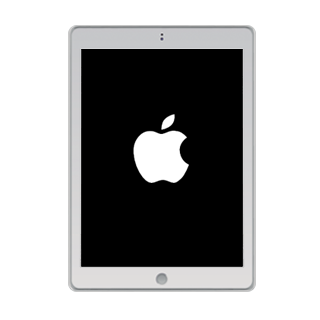
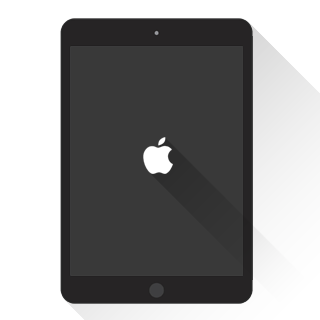
Redesigned product btns

diff --git a/index.html b/index.html
@@ -79,26 +79,14 @@
 
 		<!-- Banner -->
         <div id="homepage" class="jqueryOptions">
-            <div id="myslider" class="owl-carousel owl-theme">
-                <!--
-
-                <div>
-                    <section id="banner">
-                        <h2>iRetron</h2>
-                        <p>Start to sell your unused iPhone.</p>
-                        <ul class="actions">
-                            <li><a href="#" class="button special">Start to sell</a></li>
-                            <li><a href="#" class="button">Learn More</a></li>
-                        </ul>
-                    </section>
-                </div>-->
-                <div class="item">
-                    <img src="images/s1.jpg" alt=""/>
-                </div>
-                <div class="item">
-                    <img src="images/s2.jpg" alt=""/>
-                </div>
-            </div>
+                <section id="banner">
+                    <h2>iRetron</h2>
+                    <p>Start to sell your unused iPhone.</p>
+                    <ul class="actions">
+                        <li><a href="#" class="button special">Start to sell</a></li>
+                        <li><a href="#" class="button">Learn More</a></li>
+                    </ul>
+                </section>
         </div>
 
 		<!-- Main -->
@@ -115,20 +103,20 @@
 					</header>
 					<span class="featured">
                         <div id="myproducts" class="owl-carousel owl-theme">
-                            <div class="item prodslider">
-                                <span class="image prodicon"><img src="images/1apple.png" alt=""/></span>
+                            <div class="item">
+                                <a class="prodbtn" href="#"><span class="image prodicon"><img src="images/1apple.png" alt=""/></span></a>
                             </div>
-                            <div class="item prodslider">
-                                <span class="image prodicon"><img src="images/2android.png" alt=""/></span>
+                            <div class="item">
+                                <a class="prodbtn" href="#"><span class="image prodicon"><img src="images/2android.png" alt=""/></span></a>
                             </div>
-                            <div class="item prodslider">
-                                <span class="image prodicon"><img src="images/3ipad.png" alt=""/></span>
+                            <div class="item">
+                                <a class="prodbtn" href="#"><span class="image prodicon"><img src="images/3ipad.png" alt=""/></span></a>
                             </div>
-                            <div class="item prodslider">
-                                <span class="image prodicon"><img src="images/4macbook.png" alt=""/></span>
+                            <div class="item">
+                                <a class="prodbtn" href="#"><span class="image prodicon"><img src="images/4macbook.png" alt=""/></span></a>
                             </div>
-                            <div class="item prodslider">
-                                <span class="image prodicon"><img src="images/5mp3.png" alt=""/></span>
+                            <div class="item">
+                                <a class="prodbtn" href="#"><span class="image prodicon"><img src="images/5mp3.png" alt=""/></span></a>
                             </div>
                         </div>
                     </span>
@@ -440,6 +428,90 @@
                         </div>
                         <!--     </section>-->
                     </div>
+                    <div id="buzz" class="jqueryOptions">
+                        <h2>Buzz</h2>
+
+                        <div class="buzz-item">
+                            <div class="content">
+                                <h3 class="title">CNN</h3>
+                                <div class="date">Dec 8th, 2014</div>
+                                <div class="clear"></div>
+                                <div class="source"><a href="http://www.cnn.com/2014/12/08/business/teen-entrepreneurs-making-millions/index.html" target="_blank">The teen entrepreneurs making millions on their lunch break</a></div>
+                            </div>
+                        </div>
+                        <div class="buzz-item">
+                            <div class="content">
+                                <h3 class="title">Forefront Magazine</h3>
+                                <div class="date">Sep 6th, 2014</div>
+                                <div class="clear"></div>
+                                <div class="source"><a href="http://www.forefrontmag.com/2014/09/move-aside-millennials/" target="_blank">Move Aside, Millennials</a></div>
+                            </div>
+                        </div>
+                        <div class="buzz-item">
+                            <div class="content">
+                                <h3 class="title">ABC 7 News</h3>
+                                <div class="date">Jul 3rd, 2014</div>
+                                <div class="clear"></div>
+                                <div class="source"><a href="http://abc7news.com/education/abc7-top-scholar-jason-li/155206/" target="_blank">ABC7 Top Scholar: Jason Li</a></div>
+                            </div>
+                        </div>
+                        <div class="buzz-item">
+                            <div class="content">
+                                <h3 class="title">Innov & Social</h3>
+                                <div class="date">Apr 12th, 2014</div>
+                                <div class="clear"></div>
+                                <div class="source"><a href="http://www.innov8social.com/2014/04/interview-with-jason-li-teen-social.html" target="_blank">Interview with Jason Li, Teen Social Entrepreneur and Successful ...</a></div>
+                            </div>
+                        </div>
+                        <div class="buzz-item">
+                            <div class="content">
+                                <h3 class="title">ABC</h3>
+                                <div class="date">Mar 15th, 2014</div>
+                                <div class="clear"></div>
+                                <div class="source"><a href="http://abc.go.com/shows/shark-tank/episode-guide/season-05/520-define-bottle-iretron-boo-boo-goo-henrys-humdingers" target="_blank">Shark Tank Episodes Season 5</a></div>
+                            </div>
+                        </div>
+                        <div class="buzz-item">
+                            <div class="content">
+                                <h3 class="title">The SharkTank Blog</h3>
+                                <div class="date">Mar 8th, 2014</div>
+                                <div class="clear"></div>
+                                <div class="source"><a href="http://sharktankblog.com/recycle-electronics-iretron/" target="_blank">Recycle Electronics with IReTron</a></div>
+                            </div>
+                        </div>
+                        <div class="buzz-item">
+                            <div class="content">
+                                <h3 class="title">San Jose Mercury News</h3>
+                                <div class="date">Nov 4th, 2013</div>
+                                <div class="clear"></div>
+                                <div class="source"><a href="http://www.mercurynews.com/my-town/ci_24454150/saratoga-li-ranks-no-25-worlds-smartest-teen" target="_blank">Saratoga: Li ranks No. 25 on &#039;World&#039;s Smartest&#039; teen list</a></div>
+                            </div>
+                        </div>
+                        <div class="buzz-item">
+                            <div class="content">
+                                <h3 class="title">The Best Schools</h3>
+                                <div class="date">Sep 25th, 2013</div>
+                                <div class="clear"></div>
+                                <div class="source"><a href="http://www.thebestschools.org/blog/2013/09/25/worlds-50-smartest-teenagers/" target="_blank">The World’s 50 Smartest Teenagers</a></div>
+                            </div>
+                        </div>
+                        <div class="buzz-item">
+                            <div class="content">
+                                <h3 class="title">Gsmnation Blog</h3>
+                                <div class="date">Apr 15th, 2013</div>
+                                <div class="clear"></div>
+                                <div class="source"><a href="http://www.gsmnation.com/blog/2013/04/15/iretron-stop-old-electronics-from-getting-wasted/" target="_blank">iReTron: Stop Old Electronics from Getting Wasted</a></div>
+                            </div>
+                        </div>
+                        <div class="buzz-item">
+                            <div class="content">
+                                <h3 class="title">This gives me hope</h3>
+                                <div class="date">Mar 18th, 2013</div>
+                                <div class="clear"></div>
+                                <div class="source"><a href="http://thisgivesmehope.com/2013/03/18/610-high-school-student-launches-green-company/" target="_blank">High school student launches green company </a></div>
+                            </div>
+                        </div>
+                    </div>
             </section>
 
 
@@ -475,6 +547,10 @@
 					<li><a href="#" class="icon fa-dribbble"><span class="label">Dribbble</span></a></li>
 					<li><a href="#" class="icon fa-google-plus"><span class="label">Google+</span></a></li>
 				</ul>
+                <ul>
+                    <li><a id="bbblink" class="sehzbum" href="http://www.bbb.org/sanjose/business-reviews/electronic-equipment-and-suppliers-service-and-repair/iretron-in-los-gatos-ca-251104#bbblogo" title="IReTron, Inc., Electronic Equipment &amp; Suppliers - Service &amp; Repair, Los Gatos, CA" style="padding: 0px; margin: 0px;"><img style="padding: 0px; border: none;" id="bbblinkimg" src="https://seal-sanjose.bbb.org/logo/sehzbum/iretron-251104.png" width="300" height="57" alt="IReTron, Inc., Electronic Equipment &amp; Suppliers - Service &amp; Repair, Los Gatos, CA"></a></li>
+                    <li><a href="//www.PositiveSSL.com" title="SSL Certificate Authority"><img src="images/PositiveSSL_tl_trans.png" alt="SSL Certificate Authority"></a></li>
+                </ul>
 				<ul class="copyright">
 					<li>&copy; iRetron. All rights reserved.</li>
 				</ul>

diff --git a/css/style.css b/css/style.css
@@ -634,6 +634,46 @@
                 display: block;
                 width: 100%;
             }
+
+.prodbtn {
+    display: inline-block;
+    -webkit-box-sizing: content-box;
+    -moz-box-sizing: content-box;
+    box-sizing: content-box;
+    position: relative;
+    cursor: pointer;
+    margin: 0;
+    border: none;
+    font: normal 20px/2.4 "Open Sans", Helvetica, sans-serif;
+    color: rgba(255,255,255,0.9);
+    text-transform: capitalize;
+    -o-text-overflow: clip;
+    text-overflow: clip;
+    background: rgba(26,188,156,1);
+    -webkit-box-shadow: 0 5px 0 0 rgba(19,150,124,1) ;
+    box-shadow: 0 5px 0 0 rgba(19,150,124,1) ;
+    text-shadow: 0 1px 1px rgba(87,151,180,0.36) ;
+    -webkit-transition: top 50ms cubic-bezier(0.42, 0, 0.58, 1);
+    -moz-transition: top 50ms cubic-bezier(0.42, 0, 0.58, 1);
+    -o-transition: top 50ms cubic-bezier(0.42, 0, 0.58, 1);
+    transition: top 50ms cubic-bezier(0.42, 0, 0.58, 1);
+}
+
+.prodbtn:hover {
+    margin: 0;
+    background: rgba(29,214,177,1);
+    -webkit-transition: none;
+    -moz-transition: none;
+    -o-transition: none;
+    transition: none;
+}
+
+.prodbtn:active {
+    top: 2px;
+    background: rgba(26,188,156,1);
+    -webkit-box-shadow: 0 3px 0 0 rgba(19,150,124,1) ;
+    box-shadow: 0 3px 0 0 rgba(19,150,124,1) ;
+}
 /* List */
 
 	ol {
@@ -1467,3 +1507,8 @@
     width: 100%;
     height: auto;
 }
+.item{
+    margin: 6px 2px;
+}
+/*BBB*/
+a#bbblink{display:block;position:relative;text-align:center;color:#005A78;text-decoration:none;overflow:hidden;margin:0;padding:0;}a#bbblink img{border:0;position:absolute;top:0;left:0;margin-left:0;max-width:200%;}a#bbblink.sehzbal,a#bbblink.rbhzbal,a#bbblink.sehzbul,a#bbblink.rbhzbul{width:200px;height:76px;}a#bbblink.sehzbal:hover img,a#bbblink.rbhzbal:hover img,a#bbblink.ruhzbal:hover img,a#bbblink.sehzbul:hover img,a#bbblink.rbhzbul:hover img,a#bbblink.ruhzbul:hover img{margin-left:-200px;}a#bbblink.ruhzbal,a#bbblink.ruhzbul{width:200px;height:90px;}a#bbblink.sevtbal,a#bbblink.rbvtbal,a#bbblink.sevtbul,a#bbblink.rbvtbul{width:80px;height:132px;}a#bbblink.sevtbal:hover img,a#bbblink.rbvtbal:hover img,a#bbblink.ruvtbal:hover img,a#bbblink.sevtbul:hover img,a#bbblink.rbvtbul:hover img,a#bbblink.ruvtbul:hover img{margin-left:-80px;}a#bbblink.ruvtbal,a#bbblink.ruvtbul{width:80px;height:144px;}a#bbblink.sehzbam,a#bbblink.rbhzbam,a#bbblink.sehzbum,a#bbblink.rbhzbum{width:150px;height:57px;}a#bbblink.sehzbam:hover img,a#bbblink.rbhzbam:hover img,a#bbblink.ruhzbam:hover img,a#bbblink.sehzbum:hover img,a#bbblink.rbhzbum:hover img,a#bbblink.ruhzbum:hover img{margin-left:-150px;}a#bbblink.ruhzbam,a#bbblink.ruhzbum{width:150px;height:69px;}a#bbblink.sevtbam,a#bbblink.rbvtbam,a#bbblink.sevtbum,a#bbblink.rbvtbum{width:60px;height:98px;}a#bbblink.sevtbam:hover img,a#bbblink.rbvtbam:hover img,a#bbblink.ruvtbam:hover img,a#bbblink.sevtbum:hover img,a#bbblink.rbvtbum:hover img,a#bbblink.ruvtbum:hover img{margin-left:-60px;}a#bbblink.ruvtbam,a#bbblink.ruvtbum{width:60px;height:110px;}a#bbblink.sehzbas,a#bbblink.rbhzbas,a#bbblink.sehzbus,a#bbblink.rbhzbus{width:100px;height:38px;}a#bbblink.sehzbas:hover img,a#bbblink.rbhzbas:hover img,a#bbblink.ruhzbas:hover img,a#bbblink.sehzbus:hover img,a#bbblink.rbhzbus:hover img,a#bbblink.ruhzbus:hover img{margin-left:-100px;}a#bbblink.ruhzbas,a#bbblink.ruhzbus{width:100px;height:48px;}a#bbblink.sevtbas,a#bbblink.rbvtbas,a#bbblink.sevtbus,a#bbblink.rbvtbus{width:40px;height:65px;}a#bbblink.sevtbas:hover img,a#bbblink.rbvtbas:hover img,a#bbblink.ruvtbas:hover img,a#bbblink.sevtbus:hover img,a#bbblink.rbvtbus:hover img,a#bbblink.ruvtbus:hover img{margin-left:-40px;}a#bbblink.ruvtbas,a#bbblink.ruvtbus{width:40px;height:75px;}a#bbblink.csvtbas,a#bbblink.csvtbus{width:153px;height:100px;}a#bbblink.csvtbam,a#bbblink.csvtbum{width:158px;height:110px;}a#bbblink.csvtbal,a#bbblink.csvtbul{width:187px;height:130px;}a#bbblink.cshzbas,a#bbblink.cshzbus{width:200px;height:42px;}a#bbblink.cshzbam,a#bbblink.cshzbum{width:250px;height:52px;}a#bbblink.cshzbal,a#bbblink.cshzbul{width:293px;height:61px;}a#bbblink.cuvtbas,a#bbblink.cuvtbus{width:63px;height:134px;}a#bbblink.cuvtbam,a#bbblink.cuvtbum{width:69px;height:145px;}a#bbblink.cuvtbal,a#bbblink.cuvtbul{width:81px;height:171px;}a#bbblink.cuhzbas,a#bbblink.cuhzbus{width:96px;height:50px;}a#bbblink.cuhzbam,a#bbblink.cuhzbum{width:137px;height:70px;}a#bbblink.cuhzbal,a#bbblink.cuhzbul{width:160px;height:82px;}

diff --git a/js/custom.js b/js/custom.js
@@ -11,14 +11,7 @@ $(document).ready(function() {
         $(this).toggleClass('toggle_active');
         $(this).siblings('.toggle_content').slideToggle("fast");
     });
-    $("#myslider").owlCarousel({
 
-        navigation : false, // Show next and prev buttons
-        slideSpeed : 300,
-        paginationSpeed : 400,
-        singleItem:true
-       // autoHeight: true
-    });
     $("#myproducts").owlCarousel({
         autoPlay: 3000, //Set AutoPlay to 3 seconds
         itemsCustom : [
